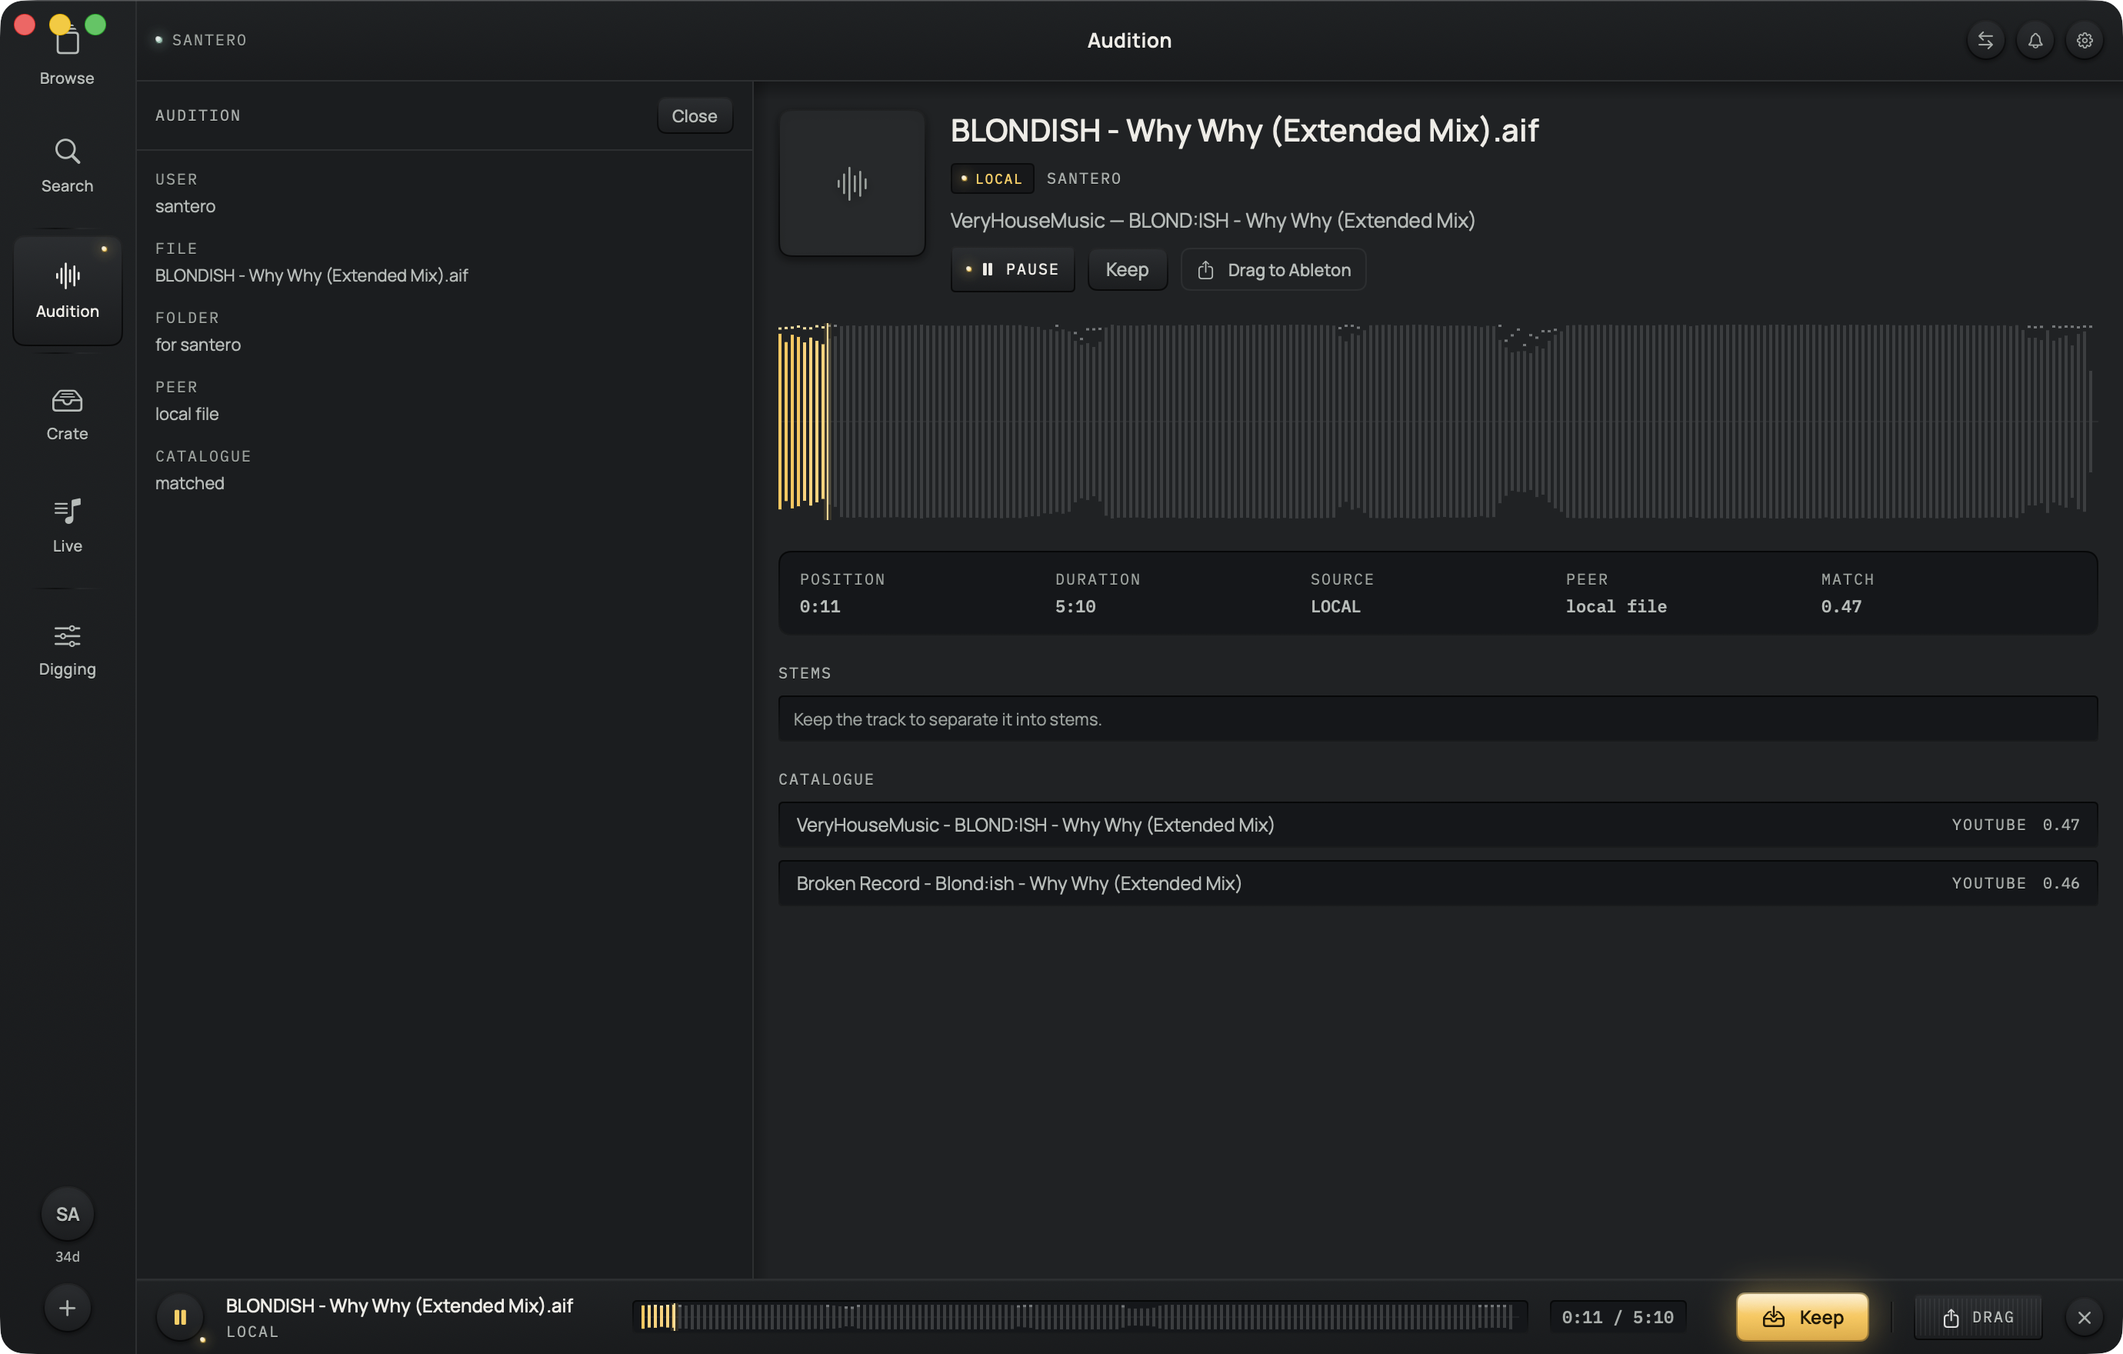
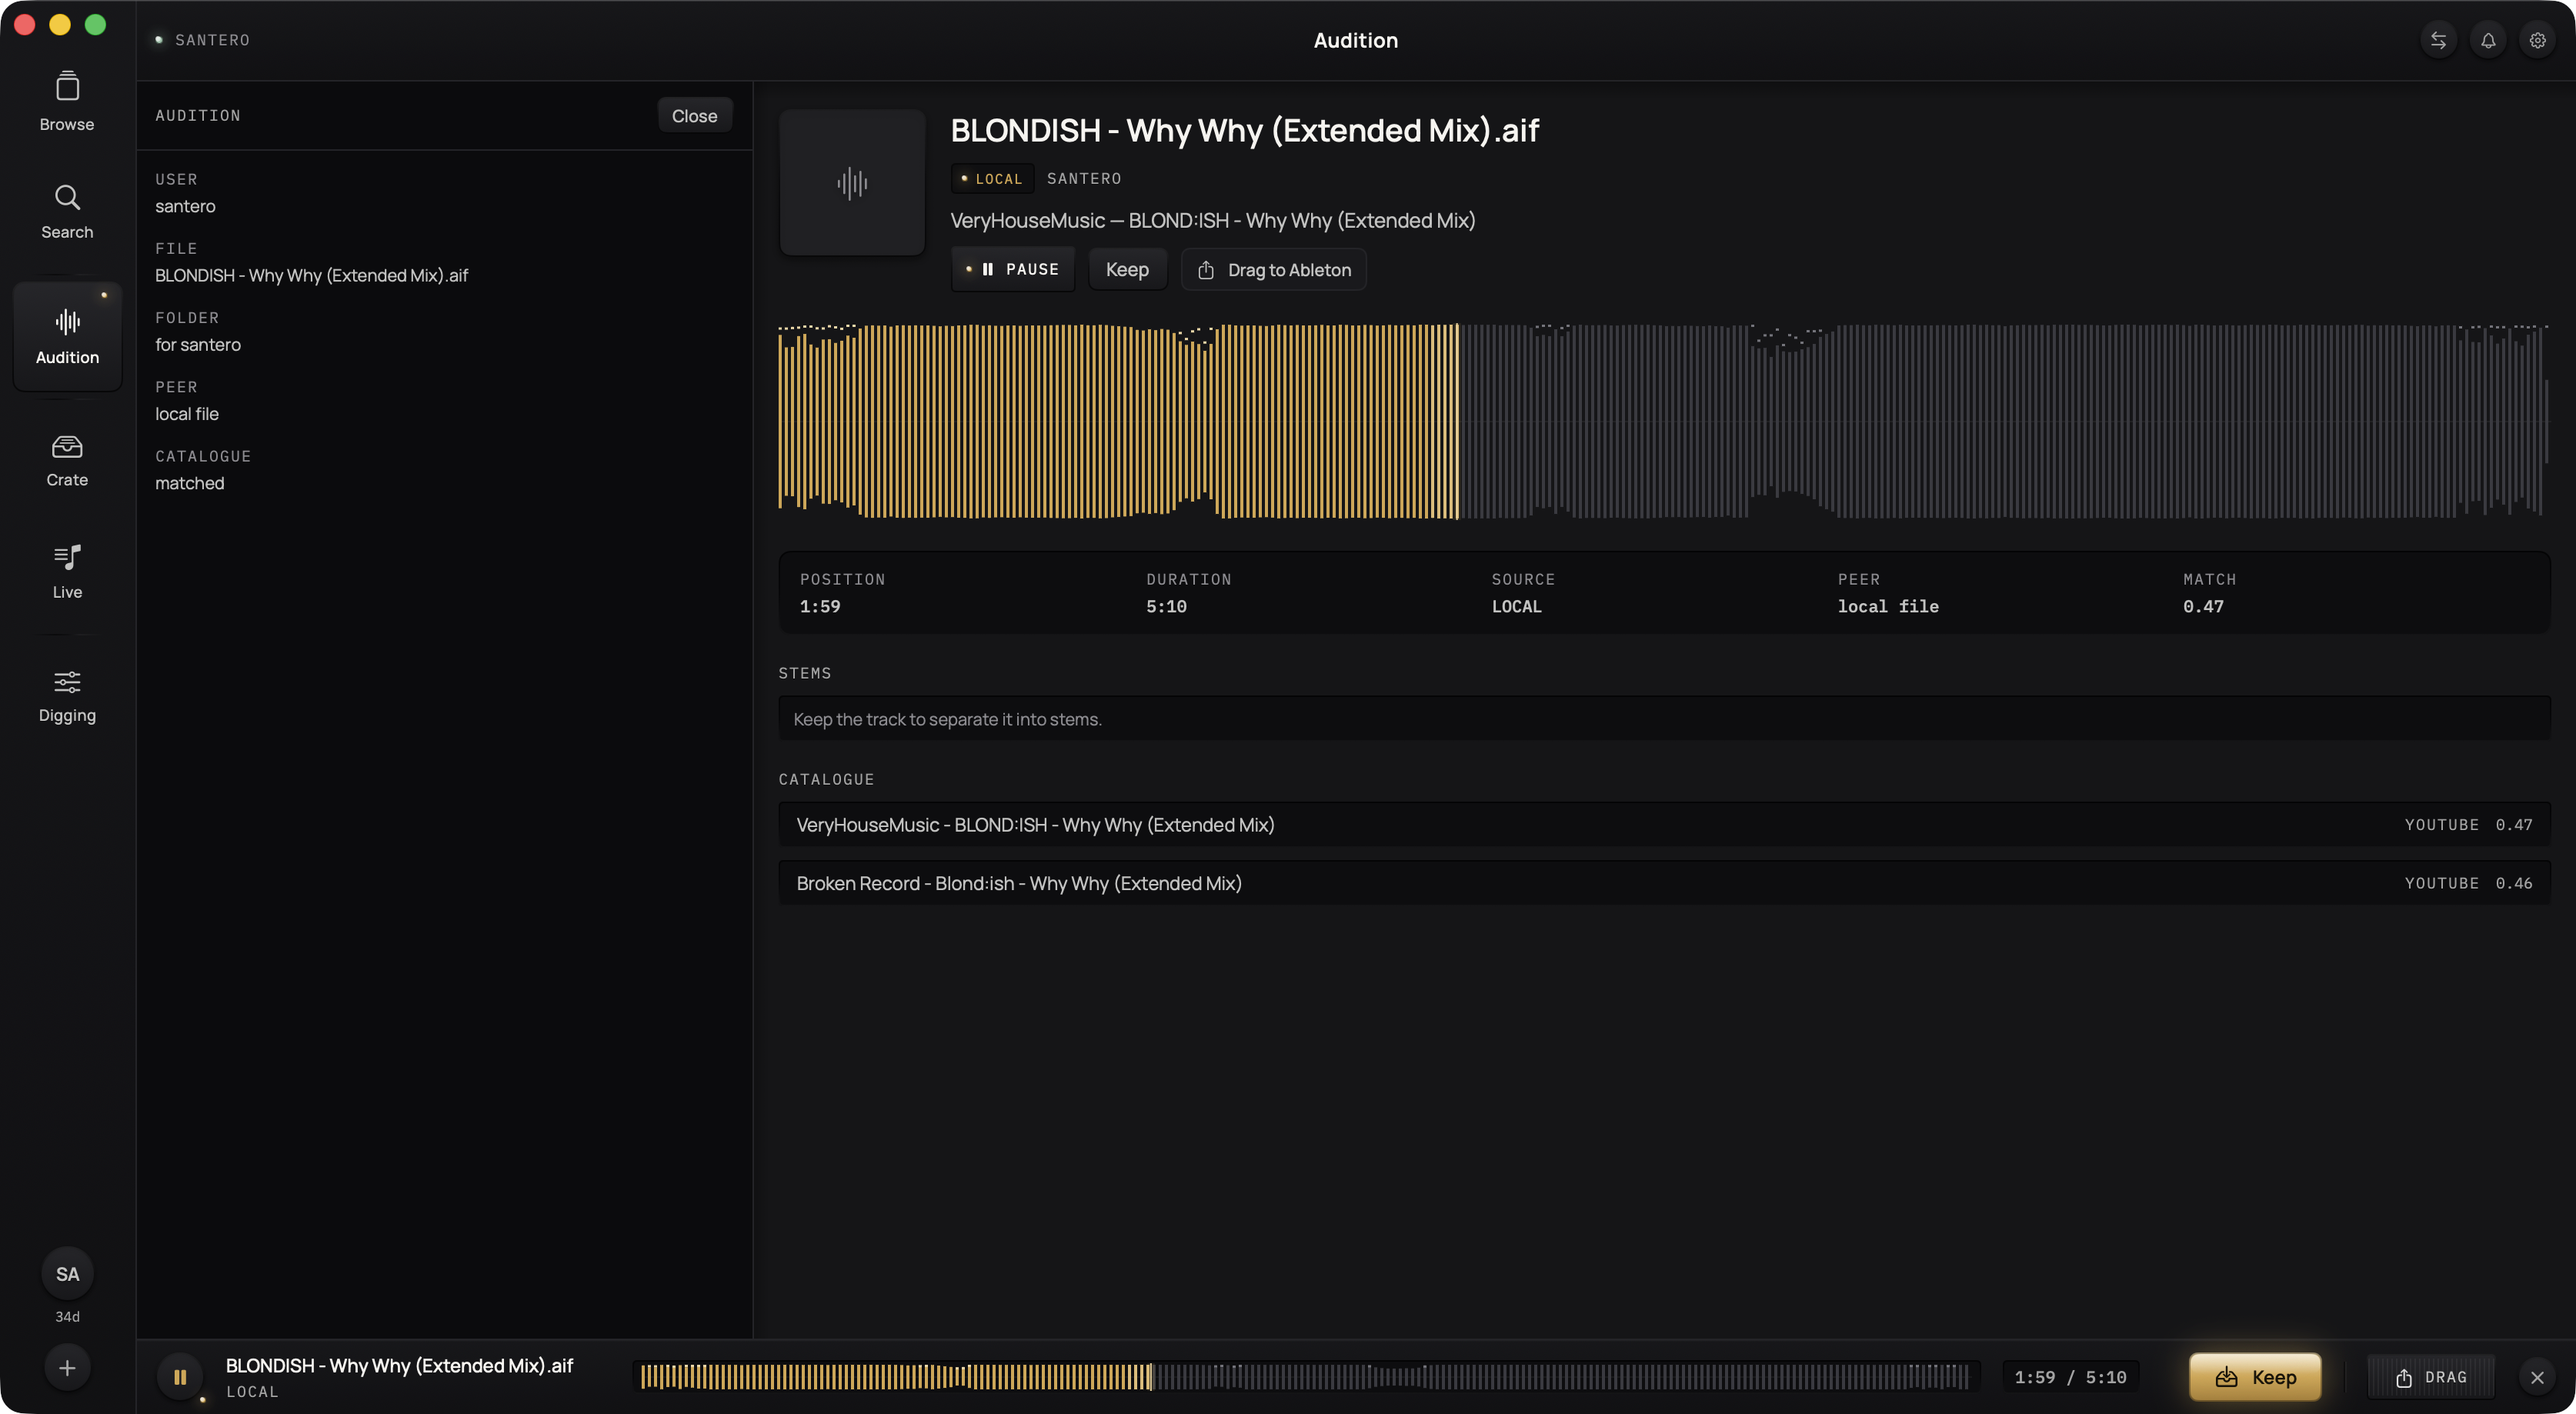
Native client: Suno's palette is the default
Agreed on the review: the near-black surfaces and antique gold read better
than the graphite and lemon gold. Skin.active now defaults to .suno; the
original palette stays one env var away with DIG_SKIN=arca.

Docs updated (the table's default column, the screenshot order, and the note
that the lit key keeps a light core so dark ink still reads on it), and the
handoff screenshot now shows the shipped look.

diff --git a/native/DigApp/Sources/DigApp/Skin.swift b/native/DigApp/Sources/DigApp/Skin.swift
@@ -13,9 +13,11 @@ enum Skin: String {
     case arca
     case suno
 
+    /// Suno's palette is the default; `DIG_SKIN=arca` brings back the graphite
+    /// and lemon gold the client shipped with.
     static let active: Skin = {
         let raw = ProcessInfo.processInfo.environment["DIG_SKIN"] ?? ""
-        return Skin(rawValue: raw) ?? .arca
+        return Skin(rawValue: raw) ?? .suno
     }()
 }
 

diff --git a/docs/UI-DIRECTION.md b/docs/UI-DIRECTION.md
@@ -407,9 +407,10 @@ the window background is the canvas colour, so no system grey shows at the edges
 
 ## 14. Palettes (`DIG_SKIN`)
 
-Two palettes share one structure; `DIG_SKIN=suno` selects the second at launch.
+Two palettes share one structure. **Suno's is the default**; `DIG_SKIN=arca`
+selects the original graphite-and-lemon palette at launch.
 
-| Token | `arca` (default) | `suno` |
+| Token | `suno` (default) | `arca` (legacy) |
 |---|---|---|
 | canvas | `#1A1D1F` | `#0B0B0D` |
 | chrome / base | `#1C1E20` | `#101012` |
@@ -427,10 +428,11 @@ The Suno palette comes from their shipped CSS: base `#101012`, warm ink
 `#F7F4EF`, and the antique metallics `#C4A670` / `#D4A54A` (their brand pink
 `#DE1677` is deliberately not used — one accent only). It reads quieter and
 blacker than arca's graphite; the structure, type and materials are identical.
-
-![arca palette](assets/palette-arca-2026-11-25.png)
-*arca: graphite surfaces, lemon gold.*
+The lit key keeps a light core (`#EFD6A2`) so dark ink still reads on it.
 
 ![suno palette](assets/palette-suno-2026-11-25.png)
-*suno: near-black surfaces, antique gold.*
+*suno (default): near-black surfaces, antique gold.*
+
+![arca palette](assets/palette-arca-2026-11-25.png)
+*arca (legacy): graphite surfaces, lemon gold.*
 
